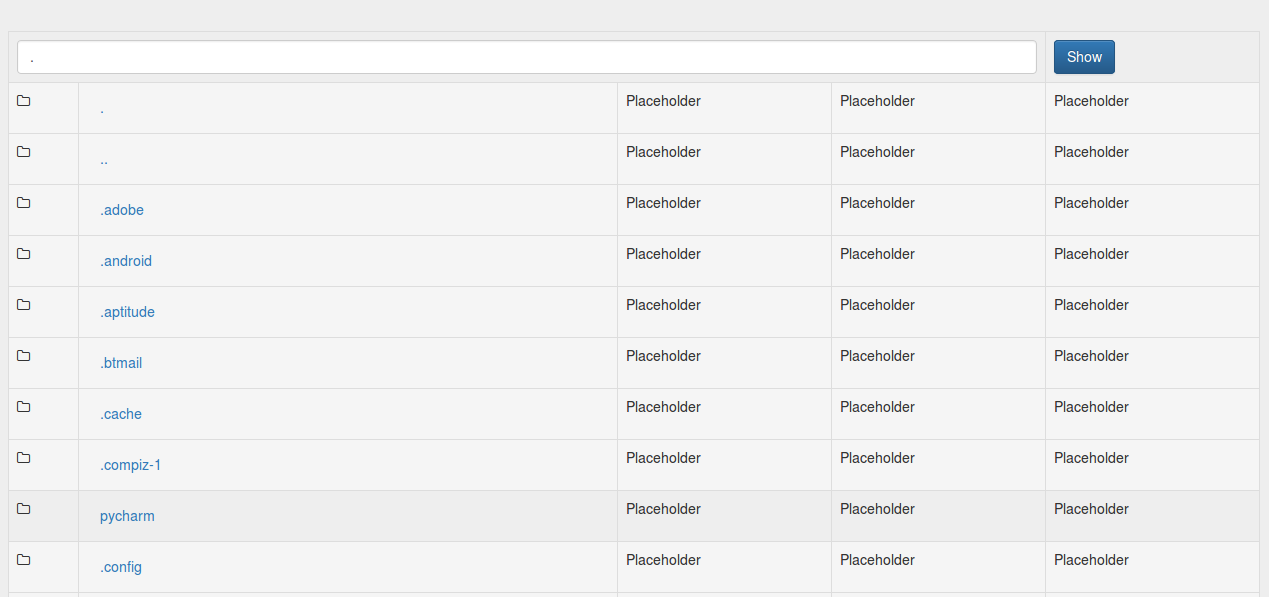
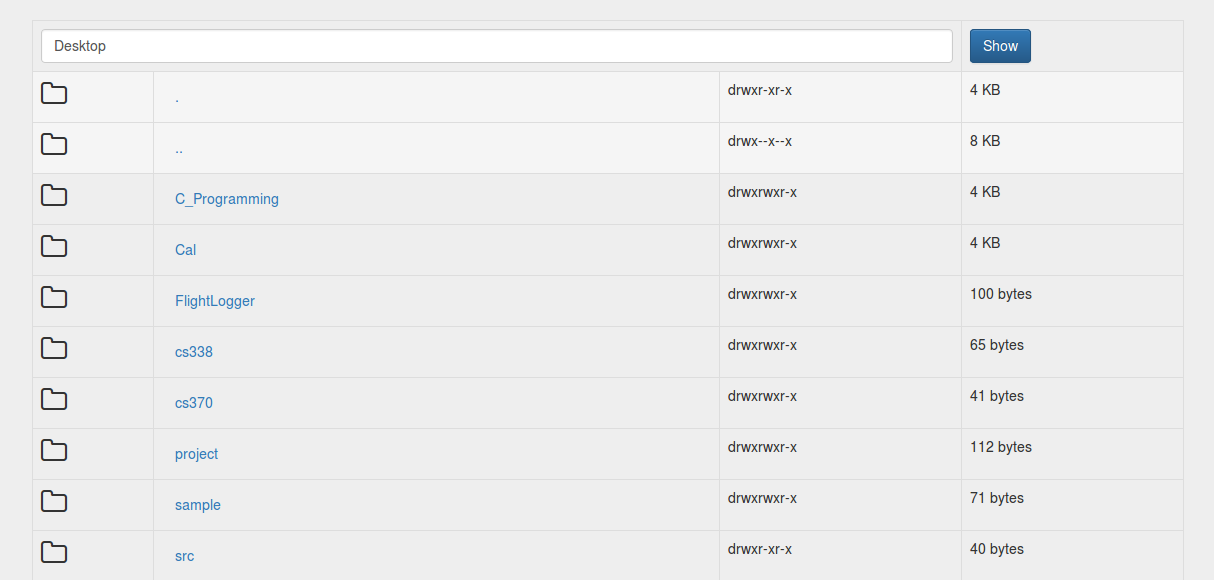
file click event

diff --git a/src/com/xiaoerge/cloudftp/client/presenter/CdPresenter.java b/src/com/xiaoerge/cloudftp/client/presenter/CdPresenter.java
@@ -3,12 +3,10 @@ package com.xiaoerge.cloudftp.client.presenter;
 import com.google.gwt.event.dom.client.ClickEvent;
 import com.google.gwt.event.dom.client.ClickHandler;
 import com.google.gwt.event.shared.HandlerManager;
-import com.google.gwt.user.cellview.client.CellList;
+import com.google.gwt.user.client.Window;
 import com.google.gwt.user.client.rpc.AsyncCallback;
 import com.google.gwt.user.client.ui.*;
 import com.xiaoerge.cloudftp.client.ShellServiceAsync;
-import com.xiaoerge.cloudftp.client.event.foreground.CdEvent;
-import com.xiaoerge.cloudftp.client.event.foreground.CdEventHandler;
 import com.xiaoerge.cloudftp.client.model.FileEntry;
 
 import java.util.Vector;
@@ -46,6 +44,10 @@ public class CdPresenter implements Presenter {
     public void refresh(HasWidgets widgets) {
         widgets.clear();
         widgets.add(display.asWidget());
+
+        //initial folder
+        display.getPathTf().setText(".");
+        display.getCdBt().click();
     }
 
     private void bind() {
@@ -75,22 +77,28 @@ public class CdPresenter implements Presenter {
                 }
             }
         });
-
-        //default show current path
-        display.getPathTf().setText(".");
-        display.getCdBt().click();
     }
 
     private void bindCellClick() {
         Vector<FileEntry> items = display.getItems();
         for (int i = 0; i < items.size(); i++) {
+            final Widget widget = display.getListTable().getWidget((i+1), 1);
             if (items.get(i).isDir()){
-                final Button button = (Button) display.getListTable().getWidget((i+1), 1);
+                final Button button = (Button) widget;
                 button.addClickHandler(new ClickHandler() {
                     @Override
                     public void onClick(ClickEvent event) {
                         display.getPathTf().setText(button.getText());
                         display.getCdBt().click();
+                    }
+                });
+            }
+            else {
+                final Label label = (Label) widget;
+                label.addClickHandler(new ClickHandler() {
+                    @Override
+                    public void onClick(ClickEvent event) {
+                        Window.alert(label.getText());
                     }
                 });
             }

diff --git a/src/com/xiaoerge/cloudftp/client/view/CdView.java b/src/com/xiaoerge/cloudftp/client/view/CdView.java
@@ -1,9 +1,14 @@
 package com.xiaoerge.cloudftp.client.view;
 
+import com.google.gwt.dom.client.Style;
 import com.google.gwt.user.client.ui.*;
+import com.google.gwt.user.client.ui.Button;
+import com.google.gwt.user.client.ui.Composite;
+import com.google.gwt.user.client.ui.Label;
 import com.xiaoerge.cloudftp.client.model.FileEntry;
 import com.xiaoerge.cloudftp.client.presenter.CdPresenter;
 
+import java.awt.*;
 import java.util.Vector;
 
 /**
@@ -25,7 +30,7 @@ public class CdView extends Composite implements CdPresenter.Display {
 
         initWidget(flexTable);
 
-        flexTable.setStyleName("table table-responsive table-bordered");
+        flexTable.setStyleName("table table-responsive table-bordered table-hover");
         pathTf.setStyleName("form-control");
         cdBt.setStyleName("btn btn-primary");
 
@@ -71,8 +76,8 @@ public class CdView extends Composite implements CdPresenter.Display {
             FileEntry fileEntry = fileEntries.get(i);
 
             String style = fileEntry.getFileName().startsWith(".") ? "active" : "";
-            HTML fileIcon = new HTML("<i class=\"fa fa-file-o\"></i>");
-            HTML folderIcon = new HTML("<i class=\"fa fa-folder-o\"></i>");
+            HTML fileIcon = new HTML("<i class=\"fa fa-file-o fa-2x\"></i>");
+            HTML folderIcon = new HTML("<i class=\"fa fa-folder-o fa-2x\"></i>");
 
             if (fileEntry.isDir()) {
                 flexTable.setWidget((i + 1), 0, folderIcon);
@@ -90,11 +95,13 @@ public class CdView extends Composite implements CdPresenter.Display {
                 flexTable.setWidget((i + 1), 0, folderIcon);
                 Button button = new Button(fileEntry.getFileName());
                 button.setStyleName("btn btn-link");
+                button.getElement().getStyle().setCursor(Style.Cursor.POINTER);
                 flexTable.setWidget((i + 1), 1, button);
             }
             else {
                 flexTable.setWidget((i + 1), 0, fileIcon);
                 Label label = new Label(fileEntry.getFileName());
+                label.getElement().getStyle().setCursor(Style.Cursor.POINTER);
                 flexTable.setWidget((i + 1), 1, label);
             }
 

diff --git a/src/com/xiaoerge/cloudftp/client/AppController.java b/src/com/xiaoerge/cloudftp/client/AppController.java
@@ -13,9 +13,9 @@ import com.xiaoerge.cloudftp.client.presenter.LoginPresenter;
 import com.xiaoerge.cloudftp.client.presenter.LogoutPresenter;
 import com.xiaoerge.cloudftp.client.presenter.Presenter;
 import com.xiaoerge.cloudftp.client.shared.StateConstants;
+import com.xiaoerge.cloudftp.client.view.CdView;
 import com.xiaoerge.cloudftp.client.view.LoginView;
 import com.xiaoerge.cloudftp.client.view.LogoutView;
-import com.xiaoerge.cloudftp.client.view.CdView;
 
 import java.util.logging.Level;
 import java.util.logging.Logger;
